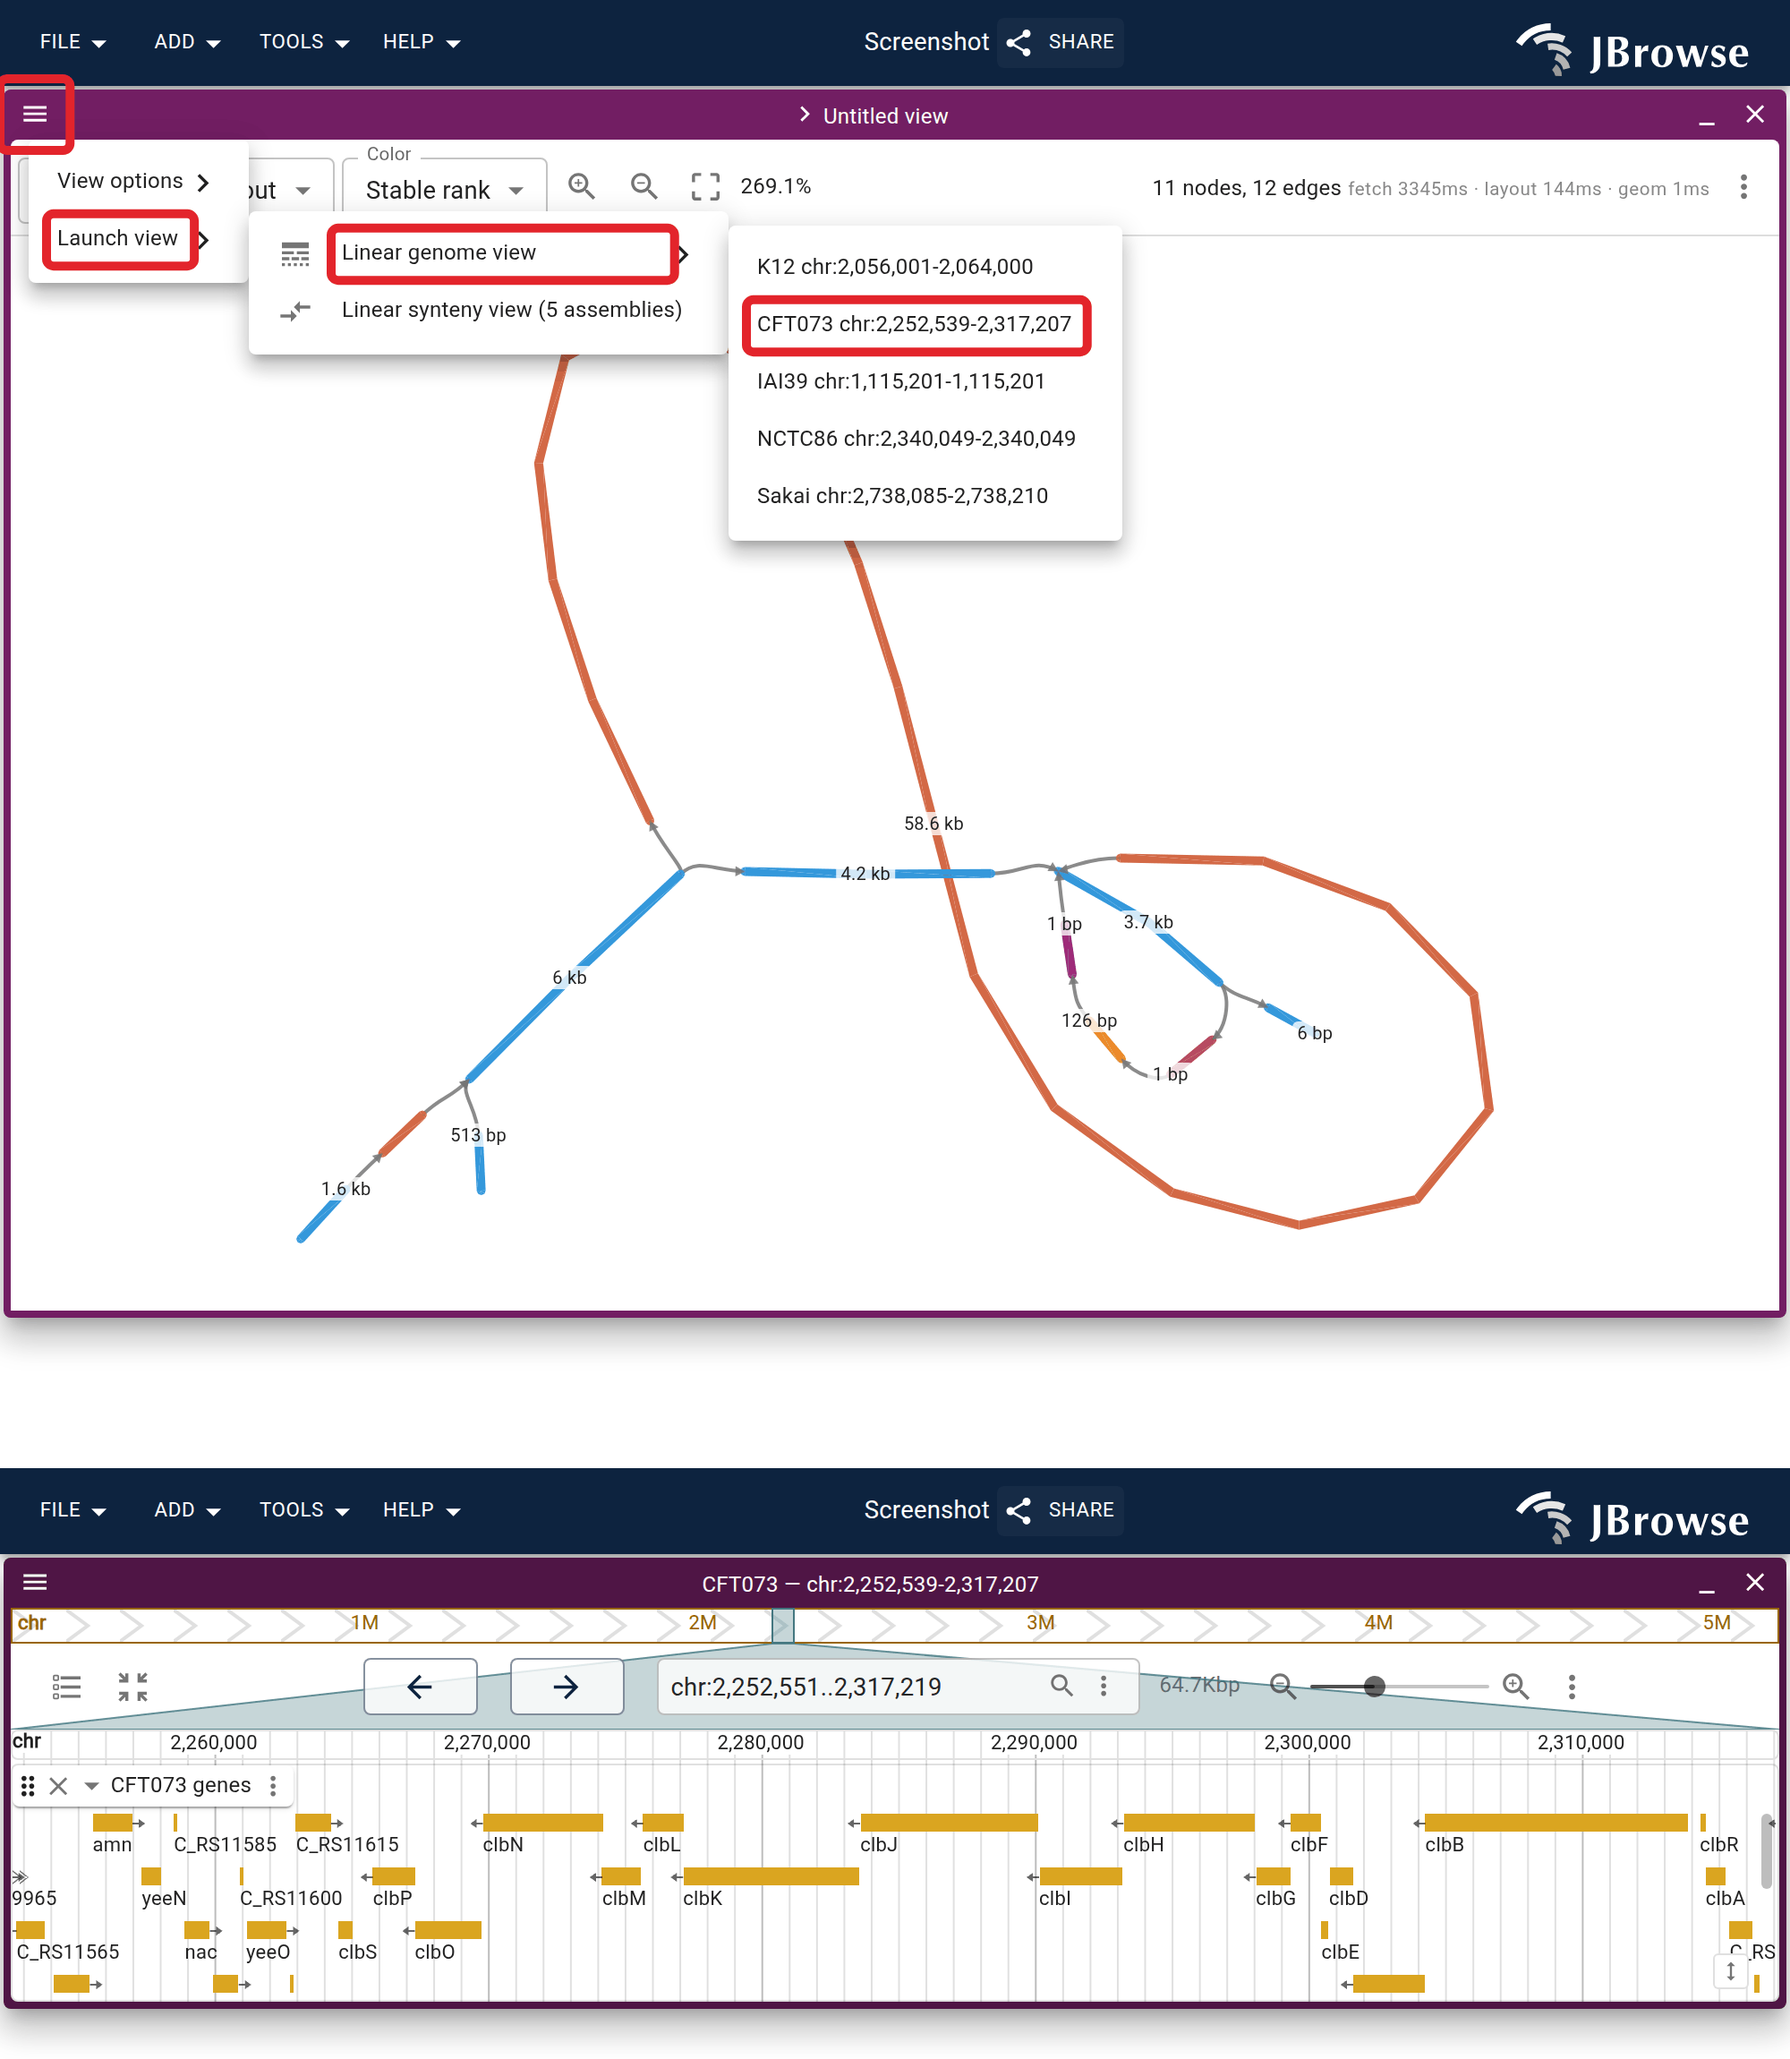
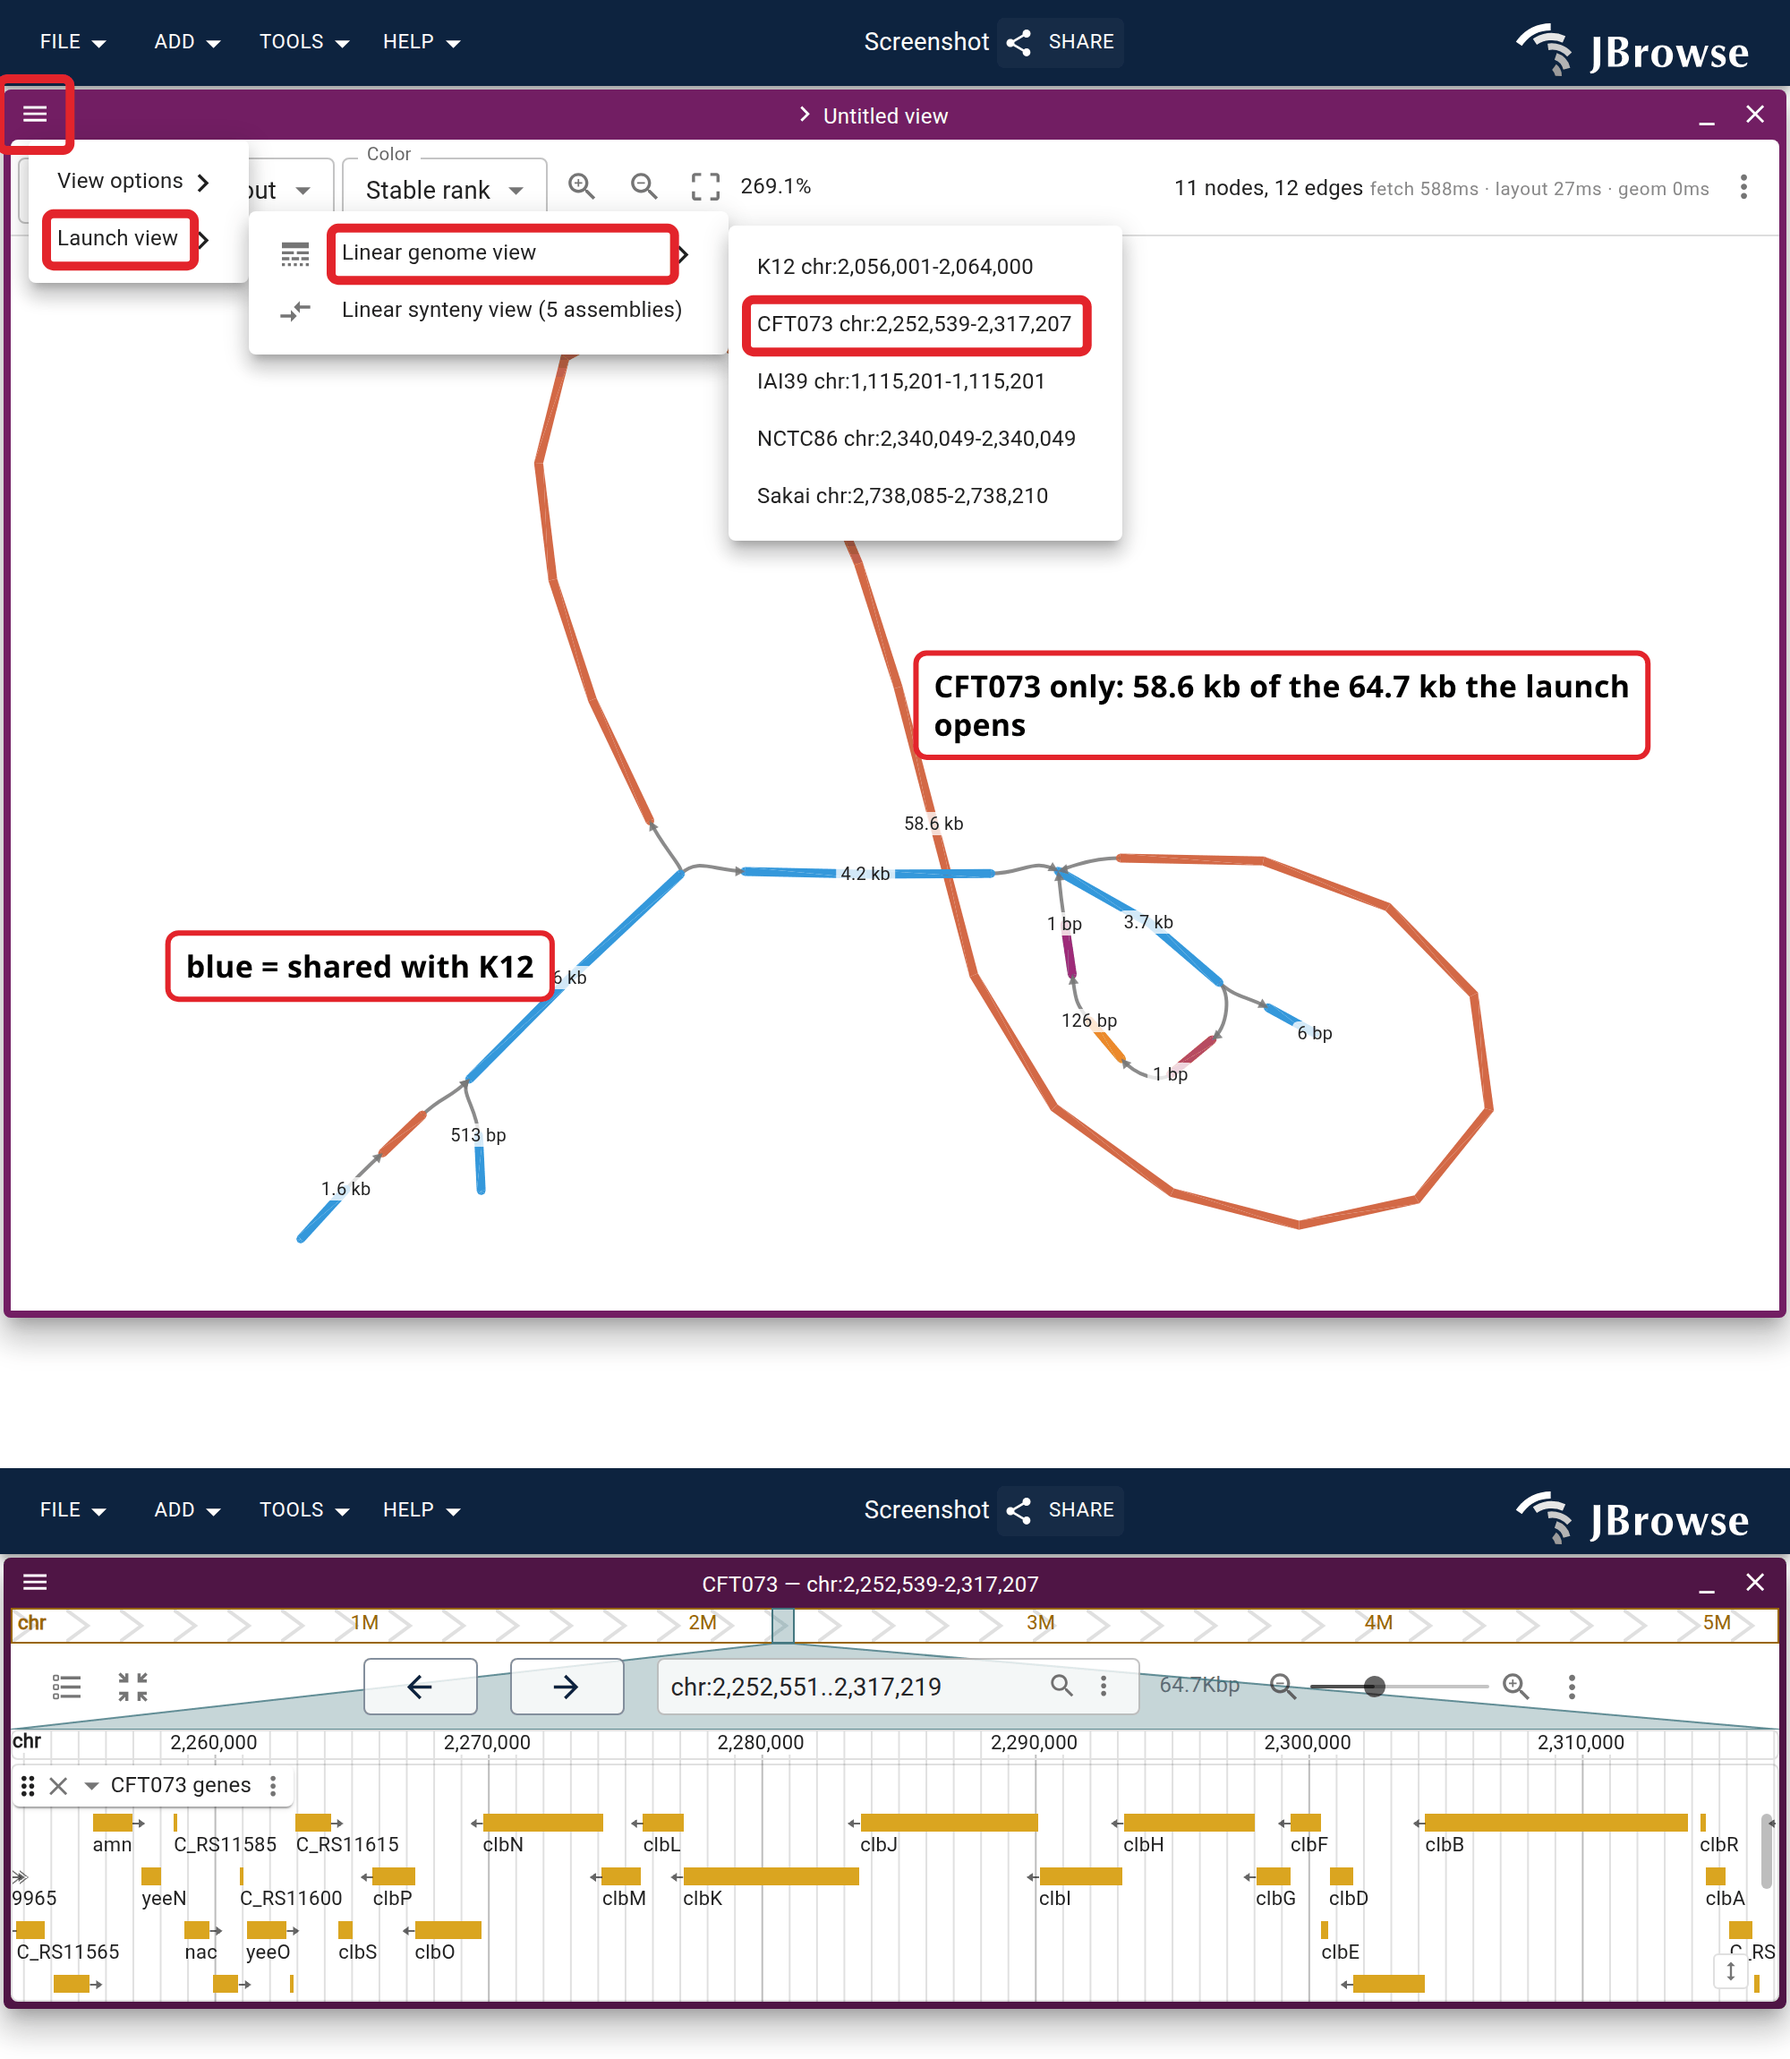
docs(pangenome): name the path the strain launch takes through the graph
Reviewed as chaotic, with "it is unclear what the path the lineargenomeview takes
through this graph. might consider rainbow coloring to help."

The colors already carried the answer -- Stable rank puts K12's rank-0 backbone
in blue and CFT073's rank-2 segments in orange, so the route is the orange arm
plus the blue it hangs off -- but nothing connected either to the menu row being
clicked. Two labels do that now, anchored by node name through the view's
`nodePositions` so they follow the FMMM layout. The numbers are the graph's own:
`probe-graph-nodes.ts` reports `s2132` as `CFT073#1#chr:2,258,597` +58,610 bp
against the 64,668 bp window the menu row names, so the arm is 91% of the path.

Rainbow is not the fix. Rainbow proper is unreproducible (hue is the node's index
in the fetched list), and reference-position, the ramp the paa figures use, would
paint the one node the launch opens grey, since a CFT073-only segment has no K-12
coordinate. Stable rank was already the right scheme; what it lacked was a key.

Worth knowing for the next spec: this stage already had an `annotations` array
after its `actions`, so a second one added above it was silently dropped -- a
duplicate object key, last one wins, and nothing warns.

Claude-Session: https://claude.ai/code/session_013ibG4ptrGdTkgGS2zvJpYV

Changed region(s): [[0.496, 0.3087, 0.93, 0.3704], [0.093, 0.4322, 0.31, 0.4939]]

diff --git a/website/scripts/specs/graph.ts b/website/scripts/specs/graph.ts
@@ -3946,6 +3946,20 @@ export const graphSpecs: ScreenshotSpec[] = [
         // click launch nothing at all, the same floor rgfa_launch_out_menu
         // measured at ~430. Treat it as measured rather than tidy.
         viewportHeight: 820,
+        // Which nodes the menu row below is about (review: "it is unclear what
+        // the path the lineargenomeview takes through this graph"). The colors
+        // already say it -- `stable-rank` puts K12's rank-0 backbone in one hue
+        // and CFT073's rank-2 segments in another -- but nothing on the drawing
+        // said which was which, so the reader had a two-color graph and a menu
+        // row and no way to connect them. Both labels are anchored by node NAME
+        // through the view's nodePositions (probe-graph-nodes.ts prints the ids
+        // with their ranks and lengths), so they follow the FMMM layout instead
+        // of being measured off a PNG.
+        //
+        // s2132 is CFT073#1#chr:2,258,597 +58,610 bp, which is 58.6 kb of the
+        // 64.7 kb window the launched view's header shows in the frame below --
+        // so the arm IS very nearly the path, and the rest of it is backbone
+        // CFT073 shares with K12.
         actions: [
           {
             type: 'click',
@@ -3970,6 +3984,31 @@ export const graphSpecs: ScreenshotSpec[] = [
           { type: 'box', anchor: { text: 'Launch view' } },
           { type: 'box', anchor: { text: 'Linear genome view' } },
           { type: 'box', anchor: { text: 'CFT073 chr:' } },
+          // ...and which nodes that last row is about. s2132 is
+          // CFT073#1#chr:2,258,597 +58,610 bp -- 58.6 kb of the 64.7 kb window
+          // the launched view's header shows in the frame below, so the arm IS
+          // very nearly the path and the rest of it is backbone CFT073 shares
+          // with K12. Both anchored by node NAME through the view's
+          // nodePositions (probe-graph-nodes.ts prints the ids with their ranks
+          // and lengths), so they follow the FMMM layout rather than a pixel
+          // measured off a PNG.
+          {
+            type: 'text',
+            text: 'CFT073 only: 58.6 kb of the 64.7 kb the launch opens',
+            fontSize: 17,
+            anchor: { view: 0, graphNode: 's2132' },
+            dy: -70,
+          },
+          {
+            type: 'text',
+            // short, and right-aligned to the node: the pill grows leftwards
+            // from s659 and the full sentence ran off the pane's own left edge
+            text: 'blue = shared with K12',
+            fontSize: 17,
+            textAlign: 'end',
+            anchor: { view: 0, graphNode: 's659' },
+            dx: -20,
+          },
         ],
       },
       {

diff --git a/website/docs/user_guides/graph_genome_view.md b/website/docs/user_guides/graph_genome_view.md
@@ -353,7 +353,7 @@ window the graph gives CFT073 tens of kilobases the reference does not have.
 Clicking that strain's entry opens the sequence on CFT073's own coordinates,
 where its gene track names it: `clbA` to `clbS`, the colibactin island.
 
-<Figure caption="Top: the graph at K12's asnW/asnU/asnV tRNA cluster, with the strain list open and the CFT073 entry boxed. Bottom: the view that entry launches, the same sequence on CFT073's own coordinates, holding the clb genotoxin operon. No alignment is consulted, the launched coordinates come from the segments' own SN/SO tags." src="/img/pangenome/rgfa_strain_launch.png" />
+<Figure caption="Top: the graph at K12's asnW/asnU/asnV tRNA cluster, with the strain list open and the CFT073 entry boxed. The colors are Stable rank, so the labeled orange arm is the segment only CFT073 carries and the blue is backbone it shares with K12 — between them they are the window the menu row names. Bottom: the view that entry launches, the same sequence on CFT073's own coordinates, holding the clb genotoxin operon. No alignment is consulted, the launched coordinates come from the segments' own SN/SO tags." src="/img/pangenome/rgfa_strain_launch.png" />
 
 ## Building the rGFA these figures use
 
